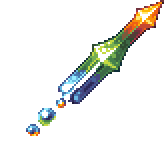
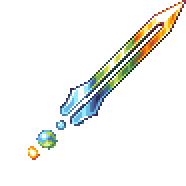
Earth Resprite

Changed region(s): [[0.122, 0.0, 1.0, 0.8537]]

diff --git a/Projectiles/Melee/EarthHoldout.cs b/Projectiles/Melee/EarthHoldout.cs
@@ -23,10 +23,10 @@ namespace CalamityMod.Projectiles.Melee
         public override LocalizedText DisplayName => CalamityUtils.GetItemName<Earth>();
         public override string Texture => "CalamityMod/Items/Weapons/Melee/Earth";
         public override float HitboxOutset => 135;
-        public override Vector2 HitboxSize => new Vector2(255, 255) * (1 + bladeFade);
+        public override Vector2 HitboxSize => new Vector2(288, 288) * (1 + bladeFade * 1.2f);
         public override float HitboxRotationOffset => MathHelper.ToRadians(-45);
 
-        public override Vector2 SpriteOrigin => new(-3, 164f);
+        public override Vector2 SpriteOrigin => new(-3, 186f);
         public Vector2 mousePos;
         public Vector2 aimVel;
         public bool doSwing = true;
@@ -200,7 +200,7 @@ namespace CalamityMod.Projectiles.Melee
                         for (int i = 0; i < 6; i++)
                         {
                             Vector2 particleVel = new Vector2(0, 10 * -Projectile.ai[1] * Owner.direction).RotatedBy(FinalRotation + MathHelper.ToRadians(-45));
-                            Vector2 particlePos = Owner.Center + (new Vector2(Main.rand.Next(30, (int)(240 * (1 + bladeFade * 0.6f))), 0).RotatedBy(FinalRotation + MathHelper.ToRadians(-45)));
+                            Vector2 particlePos = Owner.Center + (new Vector2(Main.rand.Next(30, (int)(270 * (1 + bladeFade * 0.6f))), 0).RotatedBy(FinalRotation + MathHelper.ToRadians(-45)));
                             if (Main.rand.NextBool(3))
                             {
                                 Particle sparker = new CustomSpark(particlePos + Main.rand.NextVector2Circular(15, 15), -particleVel * Main.rand.NextFloat(0.4f, 0.8f), "CalamityMod/Particles/Sparkle", false, 30, Main.rand.NextFloat(1.2f, 2.2f), mainColor, new Vector2(0.4f, Main.rand.NextFloat(0.9f, 1.4f)), true, true);
@@ -236,10 +236,10 @@ namespace CalamityMod.Projectiles.Melee
                             float randRot = Main.rand.NextFloat(-30, -60);
                             Vector2 dustVel = (new Vector2(0, 10 * -Projectile.ai[1] * Owner.direction)).RotatedBy(FinalRotation + MathHelper.ToRadians(randRot));
 
-                            GenericSparkle sparker = new GenericSparkle(Owner.Center + (new Vector2(240 * (1 + bladeFade * 0.6f), 0).RotatedBy(FinalRotation + MathHelper.ToRadians(-45)).RotatedByRandom(0.3f)), Vector2.Zero, Color.White, mainColor, Main.rand.NextFloat(0.5f, 0.7f), 11, Main.rand.NextFloat(-0.1f, 0.1f), 2.68f);
+                            GenericSparkle sparker = new GenericSparkle(Owner.Center + (new Vector2(270 * (1 + bladeFade * 0.6f), 0).RotatedBy(FinalRotation + MathHelper.ToRadians(-45)).RotatedByRandom(0.3f)), Vector2.Zero, Color.White, mainColor, Main.rand.NextFloat(0.5f, 0.7f), 11, Main.rand.NextFloat(-0.1f, 0.1f), 2.68f);
                             GeneralParticleHandler.SpawnParticle(sparker);
 
-                            Dust dust2 = Dust.NewDustPerfect(Owner.Center + (new Vector2(240 * (1 + bladeFade * 0.6f), 0).RotatedBy(FinalRotation + MathHelper.ToRadians(-45)).RotatedByRandom(0.3f)), 278, dustVel);
+                            Dust dust2 = Dust.NewDustPerfect(Owner.Center + (new Vector2(270 * (1 + bladeFade * 0.6f), 0).RotatedBy(FinalRotation + MathHelper.ToRadians(-45)).RotatedByRandom(0.3f)), 278, dustVel);
                             dust2.scale = Main.rand.NextFloat(0.65f, 1.05f);
                             dust2.noGravity = true;
                             dust2.color = Color.Lerp(Color.White, mainColor, 0.5f);
@@ -349,6 +349,7 @@ namespace CalamityMod.Projectiles.Melee
         public override bool PreDraw(ref Color lightColor)
         {
             // Only draw the projectile if the projectile's owner is currently using the item this projectile is attached to.
+            float spriteMult = 1.13f;
             if ((useAnim > 0 || DrawUnconditionally) && Owner.ItemAnimationActive)
             {
                 Asset<Texture2D> tex = ModContent.Request<Texture2D>(Texture);
@@ -360,7 +361,7 @@ namespace CalamityMod.Projectiles.Melee
                 {
                     Texture2D centerTexture = ModContent.Request<Texture2D>("CalamityMod/Projectiles/Melee/EarthGhost").Value;
                     Color auraColor = mainColor with { A = 0 } * 0.15f * fadeIn;
-                    Vector2 drawOffset = (MathHelper.TwoPi * i / 25f).ToRotationVector2() * 8 * fadeIn;
+                    Vector2 drawOffset = (MathHelper.TwoPi * i / 20f).ToRotationVector2() * 6 * fadeIn;
                     Main.EntitySpriteDraw(centerTexture, Projectile.Center - Main.screenPosition + drawOffset + new Vector2(0, Owner.gfxOffY), centerTexture.Frame(1, FrameCount, 0, Frame), auraColor, Projectile.rotation + RotationOffset + r, FlipAsSword ? new Vector2(tex.Width() - SpriteOrigin.X, SpriteOrigin.Y) : SpriteOrigin, Projectile.scale, spriteEffects != SpriteEffects.None ? spriteEffects : (FlipAsSword ? SpriteEffects.FlipHorizontally : SpriteEffects.None));
                 }
                 Asset<Texture2D> swoosh = ModContent.Request<Texture2D>("CalamityMod/Particles/VerticalSmearLarge");
@@ -369,11 +370,11 @@ namespace CalamityMod.Projectiles.Melee
                 {
                     if (swingCount % 2 != 0)
                     {
-                        Main.EntitySpriteDraw(swoosh.Value, Projectile.Center - Main.screenPosition + new Vector2(0, Owner.gfxOffY), null, mainColor with { A = 0 } * fadeIn * 0.9f, (FinalRotation + MathHelper.ToRadians(45)) + MathHelper.ToRadians(swingCount % 2 != 0 ? -80 : 80) * -Owner.direction, swoosh.Size() * 0.5f, Projectile.scale * 3.15f / 4, SpriteEffects.None);
-                        Main.EntitySpriteDraw(swoosh.Value, Projectile.Center - Main.screenPosition + new Vector2(0, Owner.gfxOffY), null, mainColor with { A = 0 } * fadeIn * 0.9f, (FinalRotation + MathHelper.ToRadians(45)) + MathHelper.ToRadians(swingCount % 2 != 0 ? -80 : 80) * -Owner.direction, swoosh.Size() * 0.5f, Projectile.scale * 3.15f / 4, SpriteEffects.FlipVertically);
+                        Main.EntitySpriteDraw(swoosh.Value, Projectile.Center - Main.screenPosition + new Vector2(0, Owner.gfxOffY), null, mainColor with { A = 0 } * fadeIn * 0.9f, (FinalRotation + MathHelper.ToRadians(45)) + MathHelper.ToRadians(swingCount % 2 != 0 ? -80 : 80) * -Owner.direction, swoosh.Size() * 0.5f, spriteMult * Projectile.scale * 3.15f / 4, SpriteEffects.None);
+                        Main.EntitySpriteDraw(swoosh.Value, Projectile.Center - Main.screenPosition + new Vector2(0, Owner.gfxOffY), null, mainColor with { A = 0 } * fadeIn * 0.9f, (FinalRotation + MathHelper.ToRadians(45)) + MathHelper.ToRadians(swingCount % 2 != 0 ? -80 : 80) * -Owner.direction, swoosh.Size() * 0.5f, spriteMult * Projectile.scale * 3.15f / 4, SpriteEffects.FlipVertically);
                     }
                     else
-                        Main.EntitySpriteDraw(swoosh.Value, Projectile.Center - Main.screenPosition + new Vector2(0, Owner.gfxOffY), null, mainColor with { A = 0 } * fadeIn * 0.9f, (FinalRotation + MathHelper.ToRadians(45)) + MathHelper.ToRadians(swingCount % 2 != 0 ? -85 : 85) * -Owner.direction, swoosh.Size() * 0.5f, Projectile.scale * 3.15f * 1.6f / 4, SpriteEffects.None);
+                        Main.EntitySpriteDraw(swoosh.Value, Projectile.Center - Main.screenPosition + new Vector2(0, Owner.gfxOffY), null, mainColor with { A = 0 } * fadeIn * 0.9f, (FinalRotation + MathHelper.ToRadians(45)) + MathHelper.ToRadians(swingCount % 2 != 0 ? -85 : 85) * -Owner.direction, swoosh.Size() * 0.5f, spriteMult * Projectile.scale * 3.15f * 1.6f / 4, SpriteEffects.None);
                 }
 
                 Asset<Texture2D> tex2 = ModContent.Request<Texture2D>("CalamityMod/Particles/BloomCircle");
@@ -385,7 +386,7 @@ namespace CalamityMod.Projectiles.Melee
 
                     Color auraColor = Color.Lerp(mainColor, Color.Lerp(mainColor, Color.White, 0.7f), Utils.GetLerpValue(0, draws - 1, i)) with { A = 0 } * 0.38f * bladeFade;
                     Vector2 drawOffset = -offsetDir * 9 * i * bladeFade;
-                    Main.EntitySpriteDraw(tex2.Value, Projectile.Center - offsetDir * 70 - Main.screenPosition + drawOffset + new Vector2(0, Owner.gfxOffY) + Main.rand.NextVector2Circular(2, 2), tex2.Frame(1, FrameCount, 0, Frame), auraColor, Projectile.rotation + RotationOffset + r, tex2.Size() * 0.5f, Vector2.One * (1f - i * 0.03f) * 0.7f * bladeFade, spriteEffects != SpriteEffects.None ? spriteEffects : (FlipAsSword ? SpriteEffects.FlipHorizontally : SpriteEffects.None));
+                    Main.EntitySpriteDraw(tex2.Value, Projectile.Center - offsetDir * 70 - Main.screenPosition + drawOffset + new Vector2(0, Owner.gfxOffY) + Main.rand.NextVector2Circular(2, 2), tex2.Frame(1, FrameCount, 0, Frame), auraColor, Projectile.rotation + RotationOffset + r, tex2.Size() * 0.5f, Vector2.One * (1f - i * 0.03f) * 0.7f * bladeFade * spriteMult, spriteEffects != SpriteEffects.None ? spriteEffects : (FlipAsSword ? SpriteEffects.FlipHorizontally : SpriteEffects.None));
                 }
 
                 Main.EntitySpriteDraw(tex.Value, Projectile.Center - Main.screenPosition + new Vector2(0, Owner.gfxOffY), tex.Frame(1, FrameCount, 0, Frame), lightColor, Projectile.rotation + RotationOffset + r, FlipAsSword ? new Vector2(tex.Width() - SpriteOrigin.X, SpriteOrigin.Y) : SpriteOrigin, Projectile.scale, spriteEffects != SpriteEffects.None ? spriteEffects : (FlipAsSword ? SpriteEffects.FlipHorizontally : SpriteEffects.None));

diff --git a/Items/Weapons/Melee/Earth.cs b/Items/Weapons/Melee/Earth.cs
@@ -19,8 +19,8 @@ namespace CalamityMod.Items.Weapons.Melee
         public new string LocalizationCategory => "Items.Weapons.Melee";
         public override void SetDefaults()
         {
-            Item.width = 164;
-            Item.height = 164;
+            Item.width = 186;
+            Item.height = 186;
             Item.damage = 5684;
             Item.DamageType = TrueMeleeDamageClass.Instance;
             Item.useAnimation = 42;
